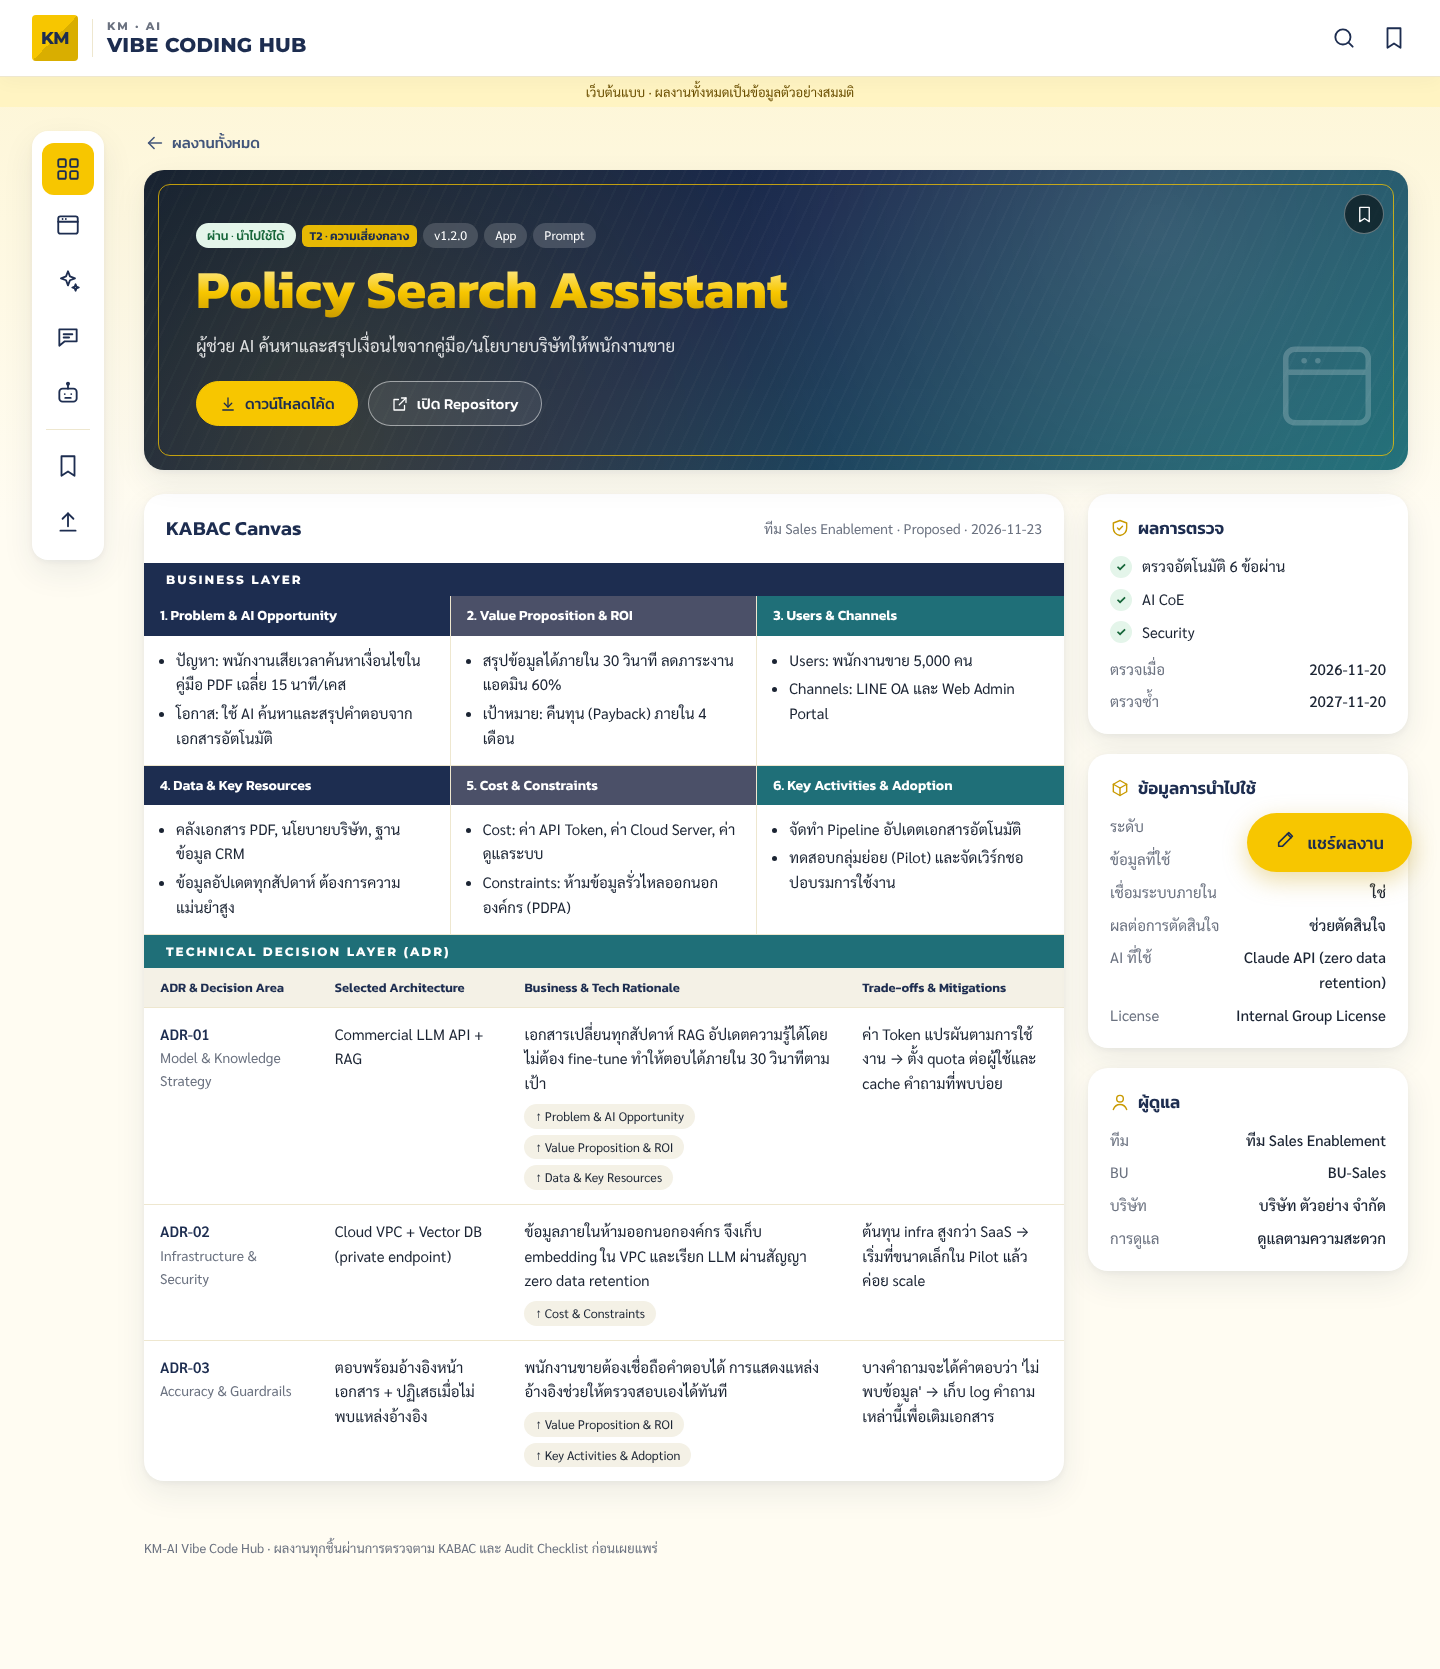
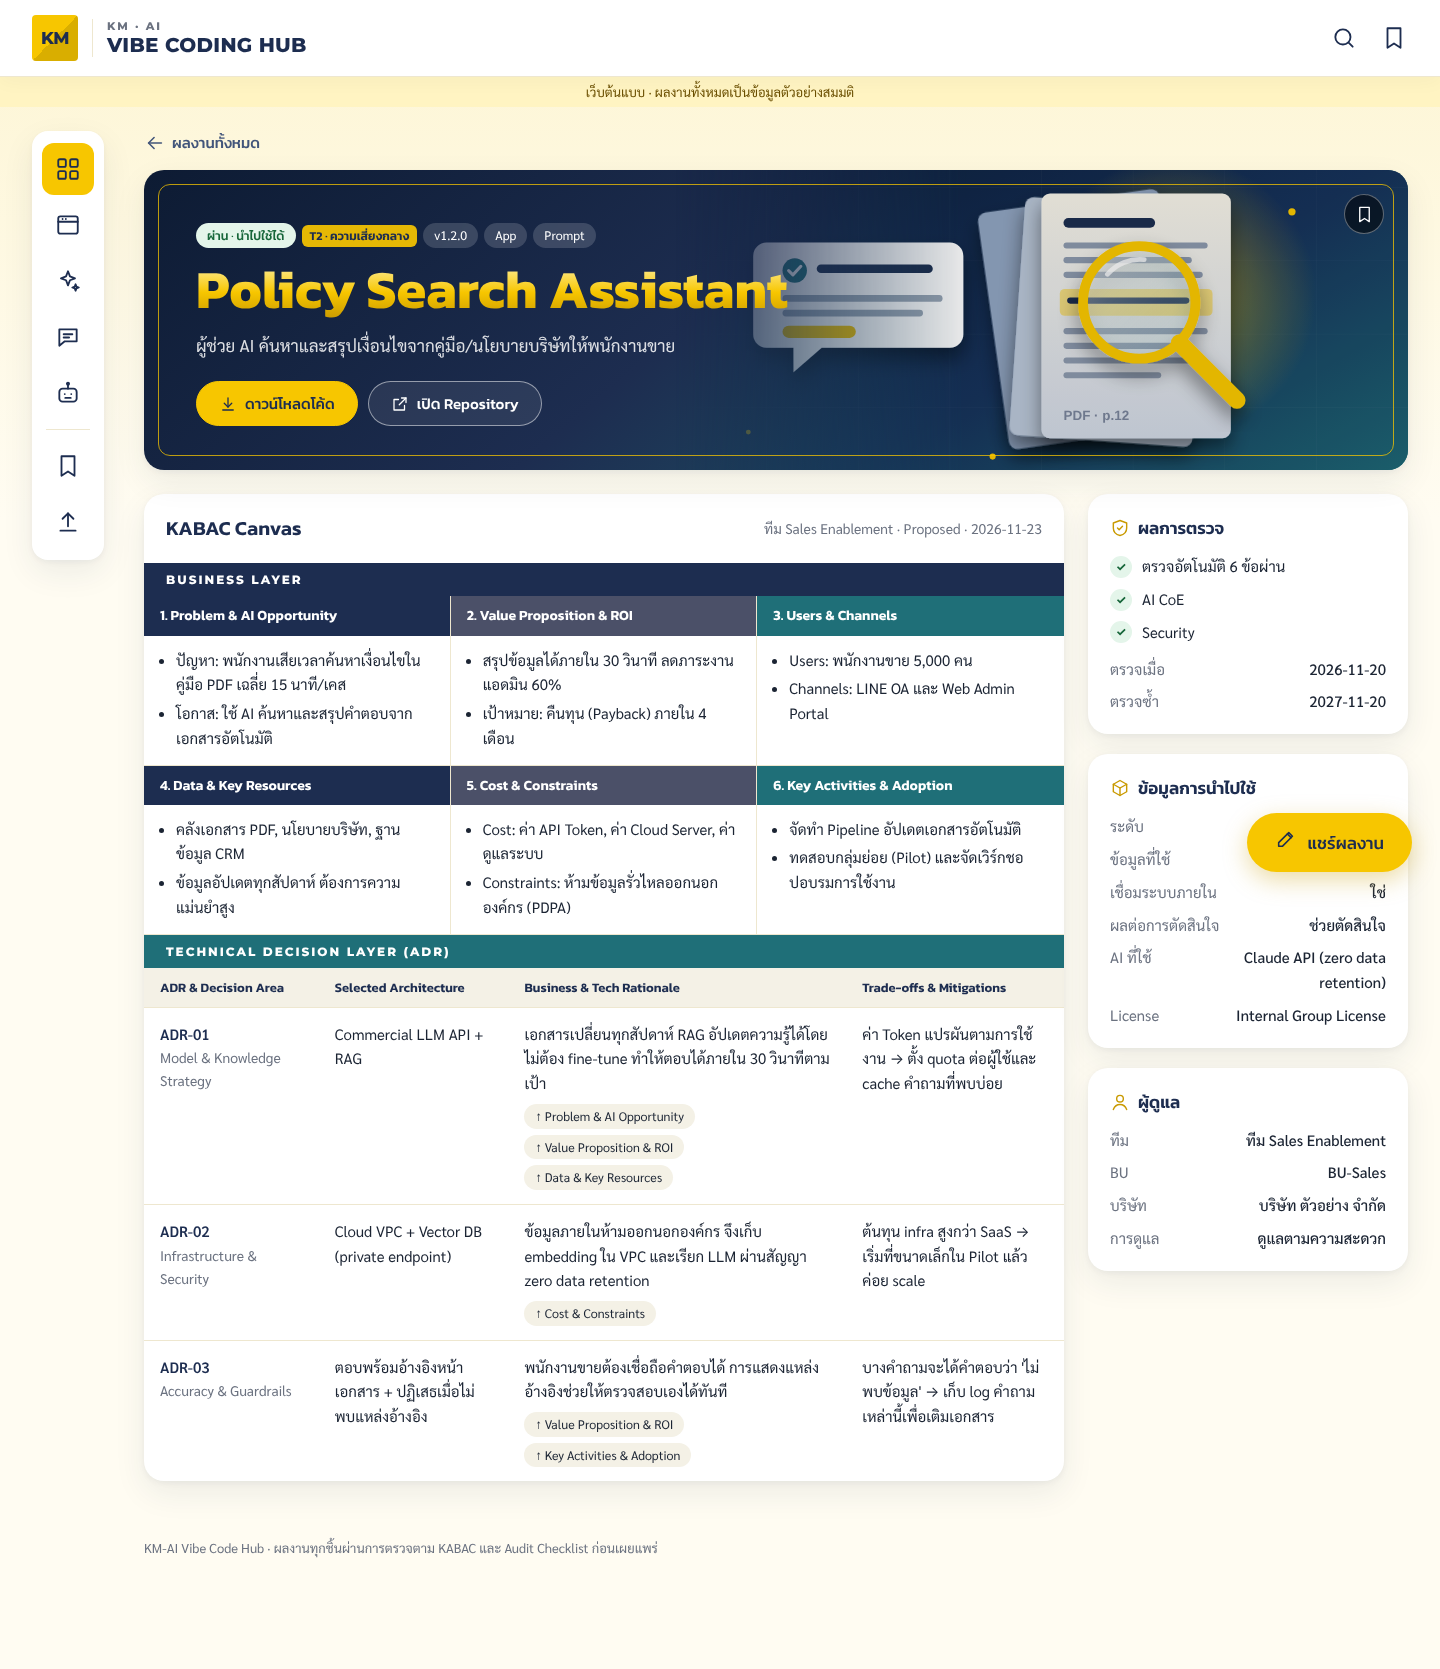
Add mock cover art for sample projects
Four 16:9 SVG cover illustrations in hub/assets/covers. Registry entries
take an optional `cover` path; cards show it full-bleed, featured cards
and the detail banner fade it away from the text so titles stay readable.
Without a cover the gradient and type icon remain as the fallback.

Claude-Session: https://claude.ai/code/session_013pEu61KxsXiVBNsC2EsmWE

Changed region(s): [[0.5, 0.0935, 1.0, 0.2804], [0.125, 0.1869, 0.3438, 0.2804]]

diff --git a/hub/app.js b/hub/app.js
@@ -76,6 +76,9 @@
   };
   const chips = (items, map) => items.map((i) => `<span class="chip">${esc(map ? map[i] || i : i)}</span>`).join("");
   const fmt = (n) => Number(n || 0).toLocaleString("th-TH");
+  // Cover image (optional). Falls back to the gradient + type icon when absent.
+  const coverCls = (p) => (p.cover ? "has-img" : "");
+  const coverImg = (p) => (p.cover ? `<img class="cover-img" src="${esc(p.cover)}" alt="" loading="lazy">` : "");
 
   // Bookmarks are a per-viewer convenience; storage may be unavailable.
   const SAVE_KEY = "vibehub.saved";
@@ -151,7 +154,8 @@
     return `<section class="featured" aria-label="ผลงานแนะนำ">${top.map((p, i) => {
       const k = p.kabac;
       return `
-        <a class="cover feature ${i ? "small" : ""}" data-type="${esc(mainType(p))}" href="#/p/${encodeURIComponent(p.slug)}">
+        <a class="cover feature ${i ? "small" : ""} ${coverCls(p)}" data-type="${esc(mainType(p))}" href="#/p/${encodeURIComponent(p.slug)}">
+          ${coverImg(p)}
           <span class="frame"></span>
           <span class="cover-icon">${icon(mainType(p))}</span>
           ${saveBtn(p.slug)}
@@ -191,7 +195,8 @@
       const k = p.kabac, t = mainType(p);
       return `
         <a class="card" href="#/p/${encodeURIComponent(p.slug)}">
-          <div class="cover" data-type="${esc(t)}">
+          <div class="cover ${coverCls(p)}" data-type="${esc(t)}">
+            ${coverImg(p)}
             <span class="frame"></span>
             <span class="cover-icon">${icon(t)}</span>
             <span class="cover-label">${esc(k.reuse.asset_types.map((x) => LABELS.asset[x] || x).join(" · "))}</span>
@@ -221,7 +226,8 @@
 
     app.innerHTML = `
       <a class="back" href="#/">${icon("back")} ผลงานทั้งหมด</a>
-      <section class="cover detail-cover" data-type="${esc(t)}">
+      <section class="cover detail-cover ${coverCls(p)}" data-type="${esc(t)}">
+        ${coverImg(p)}
         <span class="frame"></span>
         <span class="cover-icon">${icon(t)}</span>
         ${saveBtn(p.slug)}

diff --git a/hub/styles.css b/hub/styles.css
@@ -126,6 +126,25 @@ main { min-width: 0; }
 .cover-icon svg.i { width: 110px; height: 110px; stroke-width: 1.2; }
 .gold-text { background: linear-gradient(180deg, #fff3b0 0%, #f7c600 55%, #c99a00 100%); -webkit-background-clip: text; background-clip: text; color: transparent; }
 
+/* Real cover images: image + scrim so overlaid text stays readable */
+.cover-img { position: absolute; inset: 0; width: 100%; height: 100%; object-fit: cover; z-index: -2; }
+.cover.has-img::after { opacity: 1; background: linear-gradient(0deg, rgba(8,12,24,.55) 0%, rgba(8,12,24,0) 45%); }
+.cover.has-img .cover-icon { display: none; }
+/* Featured: art sits in the top part and fades into the text below */
+.feature.has-img .cover-img { height: 64%; object-position: center 30%;
+  -webkit-mask-image: linear-gradient(180deg, #000 35%, transparent 90%); mask-image: linear-gradient(180deg, #000 35%, transparent 90%); }
+.feature.has-img::after { opacity: 0; }
+/* Detail banner: art on the right, fading into the text on the left */
+.detail-cover.has-img .cover-img { left: auto; width: 58%;
+  -webkit-mask-image: linear-gradient(90deg, transparent, #000 40%); mask-image: linear-gradient(90deg, transparent, #000 40%); }
+.detail-cover.has-img::after { opacity: 0; }
+@media (max-width: 860px) {
+  .detail-cover.has-img .cover-img { width: 100%; height: 240px;
+    -webkit-mask-image: linear-gradient(180deg, #000 45%, transparent); mask-image: linear-gradient(180deg, #000 45%, transparent); }
+  .detail-cover.has-img .cover-inner { padding-top: 220px; }
+  .feature.has-img .cover-inner { padding-top: 170px; }
+}
+
 /* ---------- Featured ---------- */
 .featured { display: grid; grid-template-columns: minmax(0, 1.7fr) minmax(0, 1fr); gap: 24px; margin-bottom: 44px; }
 .feature { display: block; min-height: 400px; box-shadow: var(--shadow); transition: transform .2s ease; }

diff --git a/hub/data/projects.js b/hub/data/projects.js
@@ -6,6 +6,7 @@ window.HUB_DATA = {
       "slug": "policy-search-assistant",
       "version": "1.2.0",
       "downloads": 148,
+      "cover": "assets/covers/policy-search-assistant.svg",
       "audit": {
         "tier": "T2",
         "result": "approved_reusable",
@@ -121,6 +122,7 @@ window.HUB_DATA = {
       "slug": "meeting-minutes-skill",
       "version": "2.0.1",
       "downloads": 412,
+      "cover": "assets/covers/meeting-minutes-skill.svg",
       "audit": {
         "tier": "T1",
         "result": "approved_reusable",
@@ -219,6 +221,7 @@ window.HUB_DATA = {
       "slug": "invoice-checker-agent",
       "version": "0.9.0",
       "downloads": 37,
+      "cover": "assets/covers/invoice-checker-agent.svg",
       "audit": {
         "tier": "T3",
         "result": "approved_showcase",
@@ -332,6 +335,7 @@ window.HUB_DATA = {
       "slug": "sales-email-prompts",
       "version": "1.0.0",
       "downloads": 903,
+      "cover": "assets/covers/sales-email-prompts.svg",
       "audit": {
         "tier": "T1",
         "result": "approved_reusable",

diff --git a/scripts/build_hub_data.py b/scripts/build_hub_data.py
@@ -48,6 +48,7 @@ def main(argv: list[str]) -> int:
             "slug": entry["slug"],
             "version": entry.get("version", "0.1.0"),
             "downloads": entry.get("downloads", 0),
+            "cover": entry.get("cover"),
             "audit": audit,
             "kabac": kabac,
         })

diff --git a/hub/README.md b/hub/README.md
@@ -38,6 +38,10 @@ hub/demo-registry.yaml ┘   (ตรวจ schema + คำนวณ Tier)
 python3 scripts/build_hub_data.py
 ```
 
+## ภาพปก
+
+ใส่ `cover:` ใน registry เพื่อกำหนดภาพปก (สัดส่วน 16:9 เช่น 1200×675, เป็น SVG/PNG/JPG) ถ้าไม่ใส่จะใช้พื้นสีไล่เฉดตามประเภทผลงานแทน ภาพปกตัวอย่างอยู่ใน [`assets/covers/`](assets/covers/)
+
 Tier บนเว็บคำนวณจาก `kabac.yaml` เสมอ ไม่ได้ใช้ค่าที่พิมพ์ไว้ใน registry
 
 ## ยังไม่ได้ทำ
